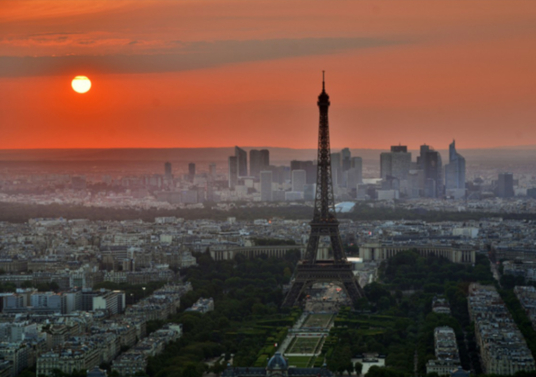
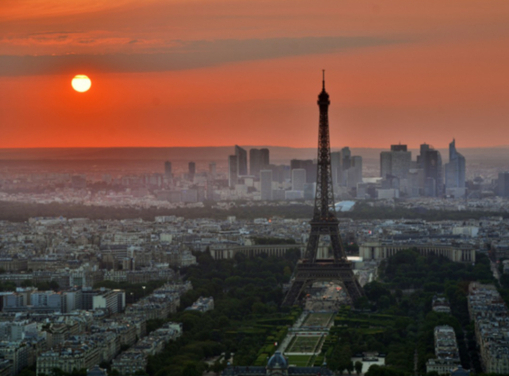
modifique el responsive de la imagen de paris

diff --git a/pages/america del norte.html b/pages/america del norte.html
@@ -85,7 +85,7 @@
             <li><b>Broadway</b></li>            
             <p>Ir al teatro en Broadway es parte esencial de una visita a Nueva York, es la meca del teatro y donde muchos de los más grandes musicales han nacido. La cartelera es muy amplia y cambia todo el tiempo. Si son entusiastas del teatro y quieren ver alguna obra en específico con buenos lugares, lo mejor siempre es la compra anticipada por internet.</p>
             <li><b>Souvenirs</b></li>
-            <p>Hay muchísimas tiendas de Souvenirs, principalmente en los alrededores de Times Square. También verán muchos puestos en la calle con las típicas camisetas de I Love NY. Comparen antes de comprar. La realidad es que la calidad entre los souvenirs oficiales (sí, la marca I Love NY está registrada y solo las tiendas con recuerdos oficiales las venden) son de mayor calidad que las que venden en los puestos de la calle (que son piratas) y que no siempre son más baratas. Aunque mi recomendación es comprar todo en e barrio chino.</p>
+            <p>Hay muchísimas tiendas de Souvenirs, principalmente en los alrededores de Times Square. También verán muchos puestos en la calle con las típicas camisetas de I Love NY. Comparen antes de comprar. La realidad es que la calidad entre los souvenirs oficiales (sí, la marca I Love NY está registrada y solo las tiendas con recuerdos oficiales las venden) son de mayor calidad que las que venden en los puestos de la calle (que son piratas) y que no siempre son más baratas. Aunque mi recomendación es comprar todo en el barrio chino.</p>
         </ol>
     </article>
 </section>

diff --git a/pages/europa.html b/pages/europa.html
@@ -121,7 +121,7 @@
             <section class="paris__sec">
                 <article>
                     <h2>Francia: cosas gratis para hacer en París</h2>
-                    <img src="../img/paris.jpg" alt="paris">
+                    <img src="../img/paris.jpg" class="img-fluid" alt="paris">
                     <p>Cuando viajamos es inevitable gastar para disfrutar algunas de las mejores cosas del sitio que visitamos, sin embargo, el dinero nunca debe ser un problema para divertirnos y disfrutar el momento al máximo.</p>
                     <a class="btn collapsed boton" data-toggle="collapse" href="#collapseExample" aria-expanded="false" aria-controls="collapseExample">Leer más</a>
                     <div class="collapse" id="collapseExample">

diff --git a/css/main.css b/css/main.css
@@ -179,7 +179,7 @@
 }
 
 /*--RESPONSIVE--*/
-/*--Tablet--*/
+/*--TABLET--*/
 @media (min-width: 481px) and (max-width: 991px) {
   #etiopia p {
     font-size: 0.9rem;
@@ -198,7 +198,7 @@
   }
 }
 
-/*--Celular--*/
+/*--CELULAR--*/
 @media (min-width: 240px) and (max-width: 480px) {
   #etiopia p {
     font-size: 0.9rem;
@@ -441,7 +441,21 @@
 
 /*--RESPONSIVE--*/
 /*--CELULAR--*/
+@media (min-width: 240px) and (max-width: 480px) {
+  .paris__sec article h2 {
+    margin: 5%;
+    text-align: center;
+  }
+}
+
 /*--TABLET--*/
+@media (min-width: 481px) and (max-width: 991px) {
+  .paris__sec article h2 {
+    margin: 5%;
+    text-align: center;
+  }
+}
+
 .formulario {
   -webkit-box-pack: center;
       -ms-flex-pack: center;

diff --git a/scss/_europa.scss b/scss/_europa.scss
@@ -66,11 +66,25 @@
 
 /*--RESPONSIVE--*/
 /*--CELULAR--*/
-@media (min-width:240px) and (max-width:480px){
-
+@media (min-width:240px) and (max-width:480px) {
+    .paris__sec{
+        article{
+            h2{
+            margin: 5%;
+            text-align: center;
+            }
+        }
+    }
 }
 
 /*--TABLET--*/
 @media (min-width: 481px) and (max-width: 991px) {
-    
+    .paris__sec{
+        article{
+            h2{
+            margin: 5%;
+            text-align: center;
+            }
+        }
+    }
 }

diff --git a/scss/_africa.scss b/scss/_africa.scss
@@ -31,7 +31,7 @@
 
 /*--RESPONSIVE--*/
 
-/*--Tablet--*/
+/*--TABLET--*/
 @media (min-width: 481px) and (max-width: 991px) {
     #etiopia {
         p{
@@ -54,7 +54,7 @@
     }
 }
 
-/*--Celular--*/
+/*--CELULAR--*/
 @media (min-width:240px) and (max-width:480px){
     #etiopia {
         p{
